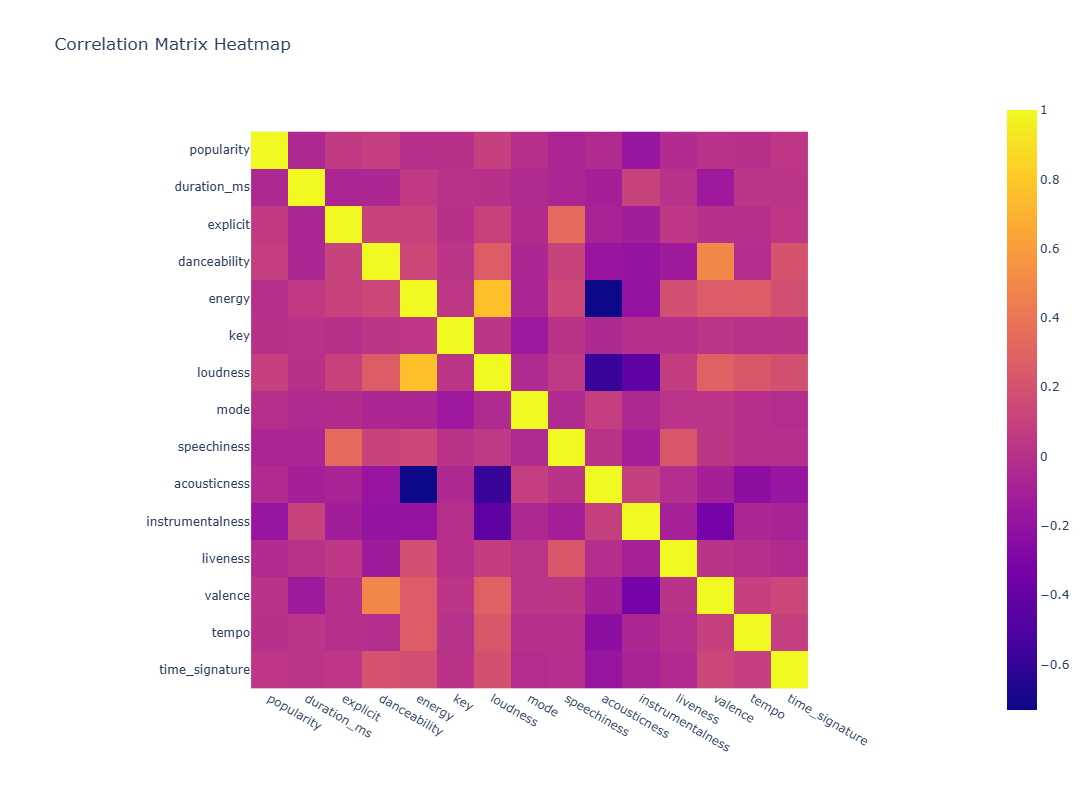
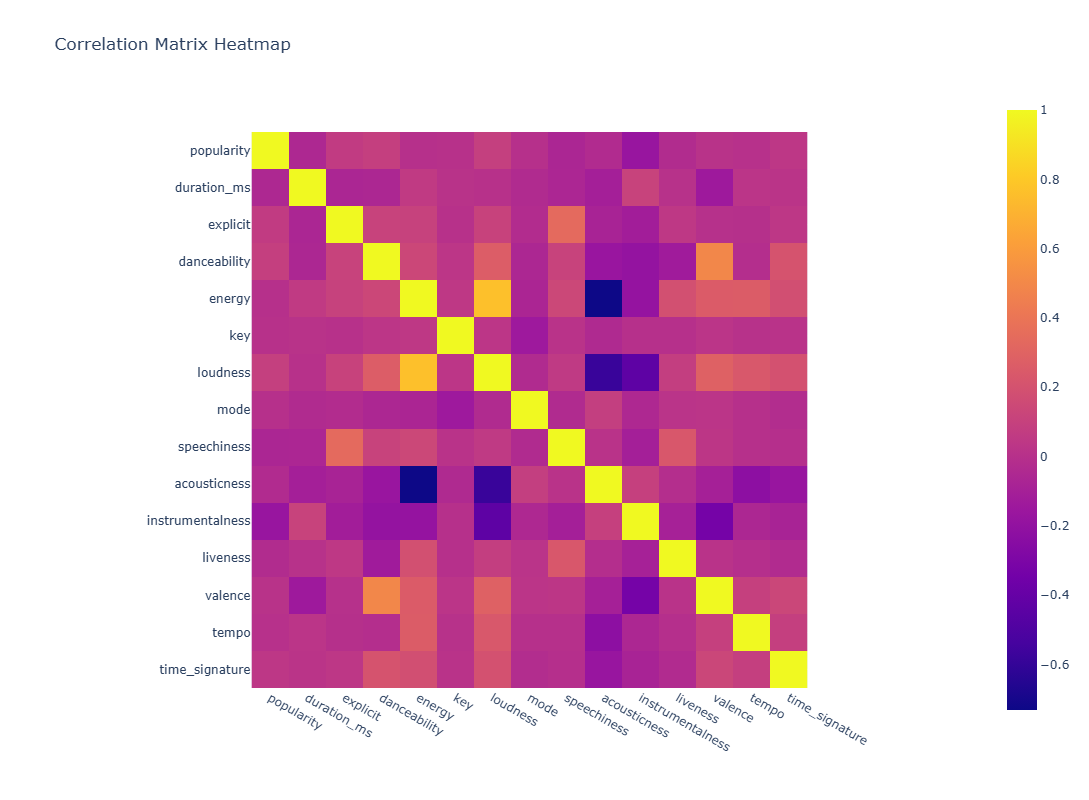
Built site for gh-pages

diff --git a/index.html b/index.html
@@ -191,7 +191,7 @@ window.Quarto = {
 <!-- margin-sidebar -->
     <div id="quarto-margin-sidebar" class="sidebar margin-sidebar">
         
-    <h5 class="quarto-listing-category-title">Categories</h5><div class="quarto-listing-category category-default"><div class="category" data-category="">All <span class="quarto-category-count">(7)</span></div><div class="category" data-category="UElDMTZC">PIC16B <span class="quarto-category-count">(5)</span></div><div class="category" data-category="bWFjaGluZSUyMGxlYXJuaW5n">machine learning <span class="quarto-category-count">(2)</span></div></div></div>
+    <h5 class="quarto-listing-category-title">Categories</h5><div class="quarto-listing-category category-default"><div class="category" data-category="">All <span class="quarto-category-count">(7)</span></div><div class="category" data-category="UElDMTZC">PIC16B <span class="quarto-category-count">(6)</span></div><div class="category" data-category="bWFjaGluZSUyMGxlYXJuaW5n">machine learning <span class="quarto-category-count">(3)</span></div></div></div>
 <!-- main -->
 <main class="content quarto-banner-title-block column-page-left" id="quarto-document-content">
 
@@ -205,7 +205,7 @@ window.Quarto = {
 
 <div class="quarto-listing quarto-listing-container-default" id="listing-listing">
 <div class="list quarto-listing-default">
-<div class="quarto-post image-right" data-index="0" data-listing-date-sort="1742540400000" data-listing-file-modified-sort="1742603669380" data-listing-date-modified-sort="NaN" data-listing-reading-time-sort="13" data-listing-word-count-sort="2587">
+<div class="quarto-post image-right" data-index="0" data-categories="UElDMTZCJTJDbWFjaGluZSUyMGxlYXJuaW5n" data-listing-date-sort="1742540400000" data-listing-file-modified-sort="1743370533853" data-listing-date-modified-sort="NaN" data-listing-reading-time-sort="13" data-listing-word-count-sort="2587">
 <div class="thumbnail">
 <p><a href="./posts/group_project/index.html" class="no-external"></a></p><a href="./posts/group_project/index.html" class="no-external">
 <p class="card-img-top"><img src="posts\group_project\index_files\figure-html\cell-2-output-1.png"  class="thumbnail-image card-img"/></p>
@@ -217,6 +217,14 @@ window.Quarto = {
 </h3>
 <div class="listing-subtitle">
 <a href="./posts/group_project/index.html" class="no-external"></a>
+</div>
+<div class="listing-categories">
+<div class="listing-category" onclick="window.quartoListingCategory('UElDMTZC'); return false;">
+PIC16B
+</div>
+<div class="listing-category" onclick="window.quartoListingCategory('bWFjaGluZSUyMGxlYXJuaW5n'); return false;">
+machine learning
+</div>
 </div>
 <div class="listing-description">
 <a href="./posts/group_project/index.html" class="no-external">The GitHub repository for our project can be found here: https://github.com/avajts/pic16b_project.git</a>

diff --git a/posts/group_project/index.html b/posts/group_project/index.html
@@ -150,7 +150,11 @@ pre > code.sourceCode > span > a:first-child::before { text-decoration: underlin
   <div class="quarto-title-banner page-columns page-full">
     <div class="quarto-title column-body">
       <h1 class="title">Spotify Collaborative Playlist Generator</h1>
-                      </div>
+                                <div class="quarto-categories">
+                <div class="quarto-category">PIC16B</div>
+                <div class="quarto-category">machine learning</div>
+              </div>
+                  </div>
   </div>
     
   
